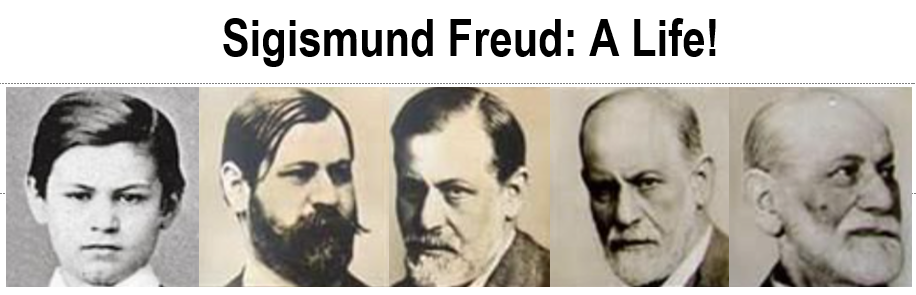
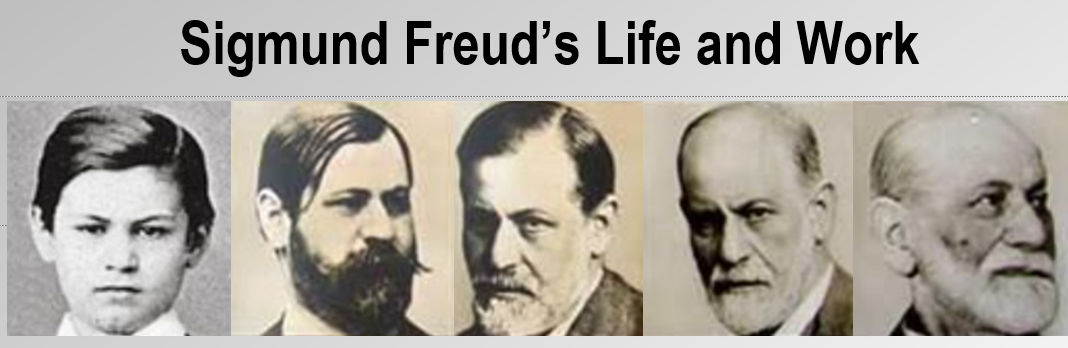
updates

diff --git a/about.html b/about.html
@@ -32,7 +32,7 @@
 							<ul class="links">
 								<li><a href="index.html">Home</a></li>
 								<li><a href="about.html">About the Presenter</a></li>
-								<li><a href="freud.html">Sigmund Freud: A Life!</a></li>
+								<li><a href="freud.html">Sigmund Freud's Life and Work</a></li>
 								<li><a href="thomas.html">Thomas A. Edison: A Life of Invention!</a></li>
 								<li><a href="marie.html">Marie Curie's Life & Work</a></li>
 								<li><a href="enrico.html">Enrico Fermi: Voyage to a New World!</a></li>
@@ -61,7 +61,7 @@
 								<div class="inner">
 
 									<!--<h3 class="major">Description</h3> -->
-									<p style="margin-bottom: 5em;" ><span class="image right"><img src="images/dad6.jpg" style="width: 70%; height: auto;" alt="" /></span>E. Anthony Sierra, M.S., M.Ed., M.A. began his career in the United States Navy. Upon completion of a two-year training program, Edward reported to the Electrical Division onboard the U.S.S. Billfish SSN-676, which was a nuclear-powered fast attack submarine.  He went on to work as a field operator at the Hope Creek Nuclear Power Station in New Jersey, and then as a nuclear reactor operator at Brookhaven National Laboratory. He is the President Elect of the Long Island Chapter of the American Nuclear Society. Edward holds a Bachelor of Science degree from Thomas Edison State University and has earned graduate degrees from New York Institute of Technology, Dowling College, and Marist College.</p>
+									<p style="margin-bottom: 5em;" ><span class="image right"><img src="images/dad6.jpg" style="width: 70%; height: auto;" alt="" /></span>E. Anthony Sierra, M.S., M.Ed., M.A. began his career in the United States Navy. Upon completion of a two-year training program, Edward reported to the Electrical Division onboard the U.S.S. Billfish SSN-676, which was a nuclear-powered fast attack submarine.  He went on to work as a field operator at the Hope Creek Nuclear Power Station in New Jersey, and then as a nuclear reactor operator at Brookhaven National Laboratory. He is the President of the Long Island Chapter of the American Nuclear Society. Edward holds a Bachelor of Science degree from Thomas Edison State University and has earned graduate degrees from New York Institute of Technology, Dowling College, and Marist College.</p>
 
 									<h3 class="major">Previous Presentations</h3>
 

diff --git a/torpedo.html b/torpedo.html
@@ -32,7 +32,7 @@
 							<ul class="links">
 								<li><a href="index.html">Home</a></li>
 								<li><a href="about.html">About the Presenter</a></li>
-								<li><a href="freud.html">Sigmund Freud: A Life!</a></li>
+								<li><a href="freud.html">Sigmund Freud's Life and Work</a></li>
 								<li><a href="thomas.html">Thomas A. Edison: A Life of Invention!</a></li>
 								<li><a href="marie.html">Marie Curie's Life & Work</a></li>
 								<li><a href="enrico.html">Enrico Fermi: Voyage to a New World!</a></li>
@@ -51,7 +51,7 @@
 					<section id="wrapper">
 						<header>
 							<div class="inner">
-								<h2>Torpedo in the Water! Recollections of a Navy Nuke</h2>
+								<h2>Torpedo in the Water! Recollections of a Navy Veteran</h2>
 								<!-- <p>Phasellus non pulvinar erat. Fusce tincidunt nisl eget ipsum.</p> -->
 								<img src="images/sub2.png" style="width: 70%; height: auto; margin-left: auto; margin-right: auto; display: block;" alt="" />
 							</div>

diff --git a/index.html b/index.html
@@ -32,7 +32,7 @@
 							<ul class="links">
 								<li><a href="index.html">Home</a></li>
 								<li><a href="about.html">About the Presenter</a></li>
-								<li><a href="freud.html">Sigmund Freud: A Life!</a></li>
+								<li><a href="freud.html">Sigmund Freud's Life and Work</a></li>
 								<li><a href="thomas.html">Thomas A. Edison: A Life of Invention!</a></li>
 								<li><a href="marie.html">Marie Curie's Life & Work</a></li>
 								<li><a href="enrico.html">Enrico Fermi: Voyage to a New World!</a></li>
@@ -74,7 +74,7 @@
 								<div class="inner">
 									<a href="freud.html" class="image"><img src="images/freud.png" alt="" style="border: 5px solid #C2A527;"/></a>
 									<div class="content">
-										<h2 class="major">Sigmund Freud: A Life!</h2>
+										<h2 class="major">Sigmund Freud's Life and Work</h2>
 										<!-- <p>Put Some Text here!</p> -->
 										<a href="freud.html" class="special">Learn more</a>
 									</div>

diff --git a/freud.html b/freud.html
@@ -32,7 +32,7 @@
 							<ul class="links">
 								<li><a href="index.html">Home</a></li>
 								<li><a href="about.html">About the Presenter</a></li>
-								<li><a href="freud.html">Sigmund Freud: A Life!</a></li>
+								<li><a href="freud.html">Sigmund Freud's Life and Work</a></li>
 								<li><a href="thomas.html">Thomas A. Edison: A Life of Invention!</a></li>
 								<li><a href="marie.html">Marie Curie's Life & Work</a></li>
 								<li><a href="enrico.html">Enrico Fermi: Voyage to a New World!</a></li>
@@ -51,7 +51,7 @@
 					<section id="wrapper">
 						<header>
 							<div class="inner">
-								<h2>Sigmund Freud: A Life!</h2>
+								<h2>Sigmund Freud's Life and Work</h2>
 								<!-- <p>Phasellus non pulvinar erat. Fusce tincidunt nisl eget ipsum.</p> -->
 								<img src="images/freud header.png" style="width: 70%; height: auto; margin-left: auto; margin-right: auto; display: block;" alt="" />
 							</div>

diff --git a/enrico.html b/enrico.html
@@ -32,7 +32,7 @@
 							<ul class="links">
 								<li><a href="index.html">Home</a></li>
 								<li><a href="about.html">About the Presenter</a></li>
-								<li><a href="freud.html">Sigmund Freud: A Life!</a></li>
+								<li><a href="freud.html">Sigmund Freud's Life and Work</a></li>
 								<li><a href="thomas.html">Thomas A. Edison: A Life of Invention!</a></li>
 								<li><a href="marie.html">Marie Curie's Life & Work</a></li>
 								<li><a href="enrico.html">Enrico Fermi: Voyage to a New World!</a></li>

diff --git a/lise.html b/lise.html
@@ -32,7 +32,7 @@
 							<ul class="links">
 								<li><a href="index.html">Home</a></li>
 								<li><a href="about.html">About the Presenter</a></li>
-								<li><a href="freud.html">Sigmund Freud: A Life!</a></li>
+								<li><a href="freud.html">Sigmund Freud's Life and Work</a></li>
 								<li><a href="thomas.html">Thomas A. Edison: A Life of Invention!</a></li>
 								<li><a href="marie.html">Marie Curie's Life & Work</a></li>
 								<li><a href="enrico.html">Enrico Fermi: Voyage to a New World!</a></li>

diff --git a/marie.html b/marie.html
@@ -32,7 +32,7 @@
 							<ul class="links">
 								<li><a href="index.html">Home</a></li>
 								<li><a href="about.html">About the Presenter</a></li>
-								<li><a href="freud.html">Sigmund Freud: A Life!</a></li>
+								<li><a href="freud.html">Sigmund Freud's Life and Work</a></li>
 								<li><a href="thomas.html">Thomas A. Edison: A Life of Invention!</a></li>
 								<li><a href="marie.html">Marie Curie's Life & Work</a></li>
 								<li><a href="enrico.html">Enrico Fermi: Voyage to a New World!</a></li>

diff --git a/thomas.html b/thomas.html
@@ -32,7 +32,7 @@
 							<ul class="links">
 								<li><a href="index.html">Home</a></li>
 								<li><a href="about.html">About the Presenter</a></li>
-								<li><a href="freud.html">Sigmund Freud: A Life!</a></li>
+								<li><a href="freud.html">Sigmund Freud's Life and Work</a></li>
 								<li><a href="thomas.html">Thomas A. Edison: A Life of Invention!</a></li>
 								<li><a href="marie.html">Marie Curie's Life & Work</a></li>
 								<li><a href="enrico.html">Enrico Fermi: Voyage to a New World!</a></li>
